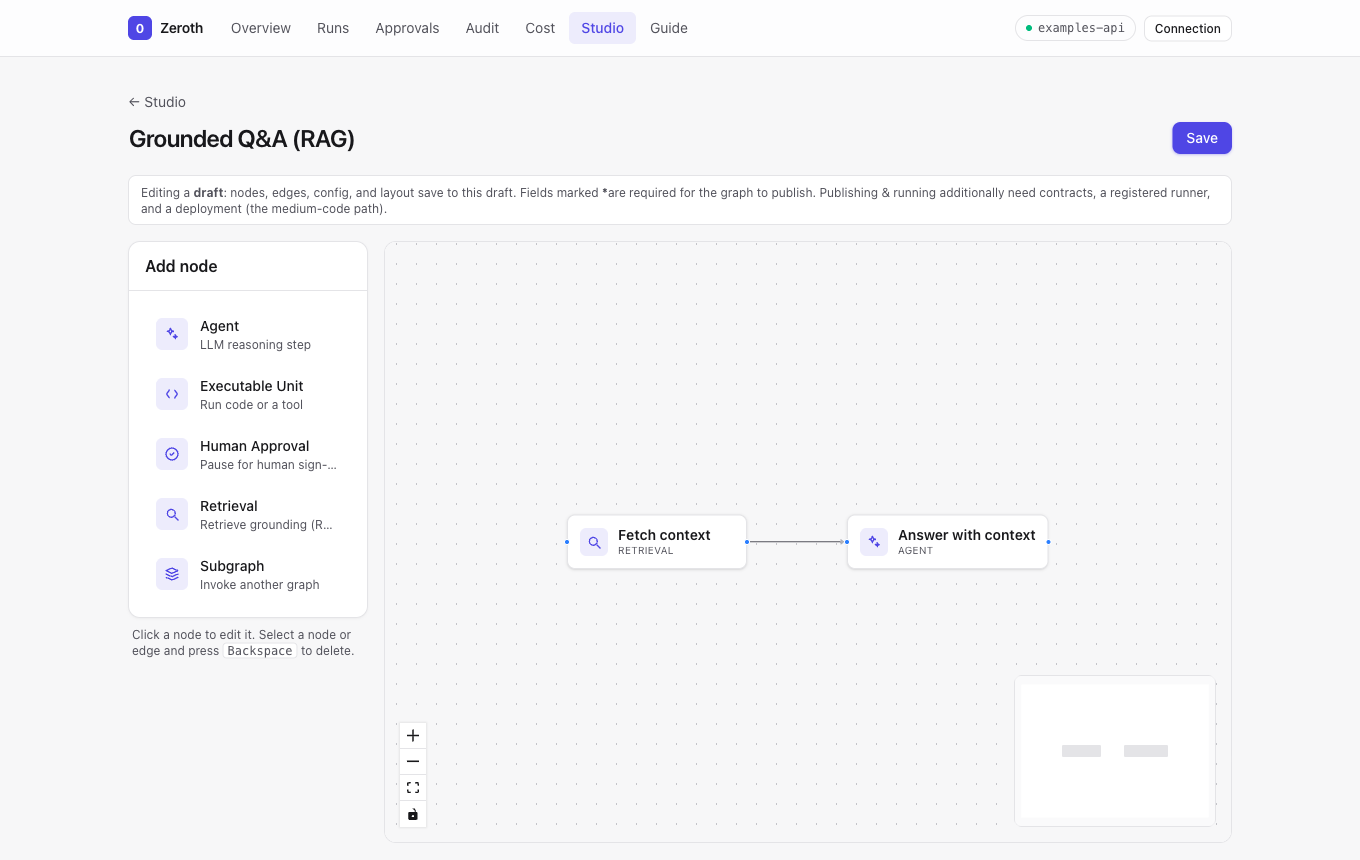
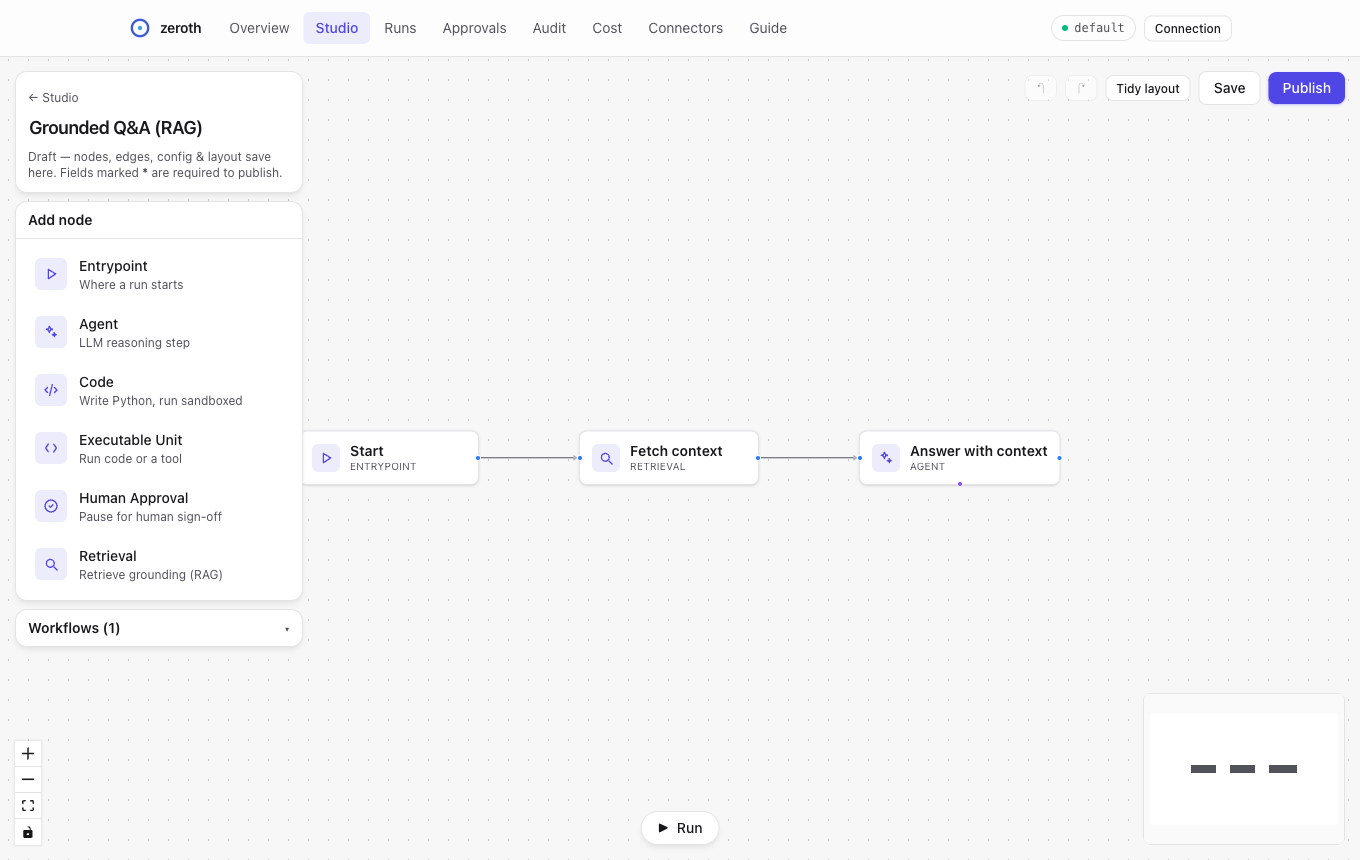
docs: v0.7.1.1.3 — README truth sweep + current console screenshots
Refresh the four README console screenshots (plus guide.png) to the
v0.7 console: full-screen canvas with node palette, entrypoint/code
nodes, publish/run controls, and the current node editor.

Text fixes for drift since v0.4.2.1:
- extras list gains otel + regulus; [all] description corrected
- node types section lists all six graph node types
- governance gains the budget-caps layer; econ plane added to the
  architecture diagram
- project structure tree matches src/zeroth/core plus bundled
  econ_plane / econ_instrumentation and frontend/
- web console section reflects the closed canvas-to-run loop
  (publish/deploy, contracts, tool edges, code nodes) and the
  connectors page
- 'v4.0 Platform Extensions' internal milestone label dropped

diff --git a/README.md b/README.md
@@ -68,10 +68,12 @@ pip install "zeroth-core[memory-chroma]" # Chroma memory backend
 pip install "zeroth-core[memory-es]"     # Elasticsearch memory backend
 pip install "zeroth-core[dispatch]"      # Distributed worker (redis + arq)
 pip install "zeroth-core[sandbox]"       # Sandbox sidecar marker
-pip install "zeroth-core[all]"           # All backends above (console stays separate)
+pip install "zeroth-core[otel]"          # OpenTelemetry trace/metric export
+pip install "zeroth-core[regulus]"       # Bundled economic control plane backend
+pip install "zeroth-core[all]"           # Everything above except console
 ```
 
-Available extras: `console`, `memory-pg`, `memory-chroma`, `memory-es`, `dispatch`, `sandbox`, `all`.
+Available extras: `console`, `memory-pg`, `memory-chroma`, `memory-es`, `dispatch`, `sandbox`, `otel`, `regulus`, `all`.
 
 ---
 
@@ -94,13 +96,16 @@ Most agent frameworks prioritize getting something working quickly. Zeroth prior
 
 A **graph** is your application. It defines how agents, executable units, and approval steps connect and interact. Graphs can be cyclic, support branching conditions, and are executed asynchronously.
 
-### Three Node Types
+### Node Types
 
-Zeroth keeps its primitives minimal. Every graph is composed from just three node types:
+Zeroth keeps its primitives minimal. Every graph is composed from a small set of node types:
 
-- **Agent** — an AI-powered node backed by an LLM provider, with optional tool attachments and memory connectors
+- **Entrypoint** — where a run starts; its contract is the workflow's public input shape, validated before anything executes
+- **Agent** — an AI-powered node backed by an LLM provider, with optional memory connectors and tool attachments (other graph units can be attached as callable tools)
 - **Executable Unit** — a sandboxed unit of work (Python code, shell scripts, commands, or full projects) that handles transformations, integrations, routing, and any deterministic processing
 - **Human Approval** — a pause point where a human must review and approve before execution continues
+- **Retrieval** — queries a memory/knowledge connector and passes the top matches downstream (the grounding step in a RAG flow)
+- **Subgraph** — invokes another published graph as a single step, keeping workflows small and composable
 
 ### Contracts
 
@@ -120,13 +125,14 @@ Zeroth enforces governance at multiple layers:
 
 - **Policy** — capability-based rules controlling what agents can do (network access, file writes, memory access, secret usage)
 - **Guardrails** — rate limiting, quota enforcement, and dead-letter queues for failed operations
+- **Budgets** — per-tenant spend caps enforced through the bundled economic control plane, with per-node cost attribution
 - **Audit** — per-node event tracking with secret redaction, timeline assembly, and evidence summaries
 - **Approvals** — human-in-the-loop gates with decision tracking
 - **Secrets** — resolved from secure providers and automatically redacted from logs
 
-### v4.0 Platform Extensions
+### Platform Extensions
 
-Zeroth v4.0 adds six subsystems for production agentic workflows:
+Six further subsystems support production agentic workflows:
 
 - **Resilient HTTP Client** — Platform-provided async HTTP with retry, circuit breaking, and connection pooling for external API calls
 - **Prompt Templates** — Versioned prompt template registry with Jinja2 sandboxed rendering and automatic secret redaction in audit records
@@ -160,6 +166,8 @@ REST endpoints for artifact retrieval (`GET /v1/artifacts/{id}`) and template ma
 │  Context Window Mgmt    │  Resilient HTTP Client     │
 ├──────────────────────────────────────────────────────┤
 │  Audit  │  Guardrails  │  Secrets  │  Observability │
+├──────────────────────────────────────────────────────┤
+│  Econ Plane (cost attribution, tenant budget caps)   │
 ├──────────────────────────────────────────────────────┤
 │  Storage (SQLite + Redis)  │  Identity & Auth        │
 └──────────────────────────────────────────────────────┘
@@ -218,33 +226,45 @@ uv run ruff format src/
 ## Project Structure
 
 ```
-src/zeroth/
+src/zeroth/core/
 ├── agent_runtime/      # Agent execution, LLM providers, tool attachments
 ├── approvals/          # Human approval workflows and decision tracking
 ├── artifacts/          # Artifact externalization and retrieval
 ├── audit/              # Per-node event tracking, redaction, evidence
+├── cli.py              # zeroth-core CLI (serve, seed-demo, migrate)
 ├── conditions/         # Branch evaluation and traversal logging
+├── config/             # Runtime settings and configuration reference
 ├── context_window/     # Token tracking and context compaction
 ├── contracts/          # Pydantic-based schema registration and versioning
 ├── deployments/        # Immutable graph snapshots and version management
 ├── dispatch/           # Durable run dispatch and worker supervision
+├── econ/               # Cost estimation, budget enforcement, econ integration
+├── eval/               # Agent evaluation harness: datasets, scorers, CI gate
 ├── execution_units/    # Sandboxed code execution (Docker, Python, shell)
 ├── graph/              # Workflow DAG structure and persistence
 ├── guardrails/         # Rate limiting, quotas, dead-letter queues
-├── http/               # Resilient async HTTP client (http_client) with retry and circuit breaking
+├── http/               # Resilient async HTTP client with retry and circuit breaking
 ├── identity/           # Authentication, principals, roles, scoping
 ├── mappings/           # Data flow definitions between graph nodes
 ├── memory/             # Persistent agent memory connectors
+├── migrations/         # Schema migrations applied at boot
 ├── observability/      # Metrics, correlation IDs, structured logging
 ├── orchestrator/       # Core workflow execution engine
 ├── parallel/           # Fan-out/fan-in concurrent branch execution
 ├── policy/             # Capability-based access control
+├── rag/                # Document ingestion for retrieval (chunk + embed)
 ├── runs/               # Run and thread state persistence
+├── sandbox_sidecar/    # Sidecar sandbox backend
 ├── secrets/            # Secret resolution and redaction
-├── service/            # FastAPI HTTP API and bootstrap
+├── service/            # FastAPI HTTP API, console mount, bootstrap
 ├── storage/            # SQLite, Redis, migrations, encryption
 ├── subgraph/           # Nested graph composition and resolution
-└── templates/          # Versioned prompt template registry
+├── templates/          # Versioned prompt template registry
+└── webhooks/           # Webhook subscriptions, signed delivery, dead-letter
+
+src/econ_plane/         # Bundled Regulus economic control plane backend
+src/econ_instrumentation/  # Vendored instrumentation SDK used by econ/
+frontend/               # Next.js web console (static export, see below)
 ```
 
 ---
@@ -306,19 +326,20 @@ The console is built once and runs in **two modes from the same bundle**:
 The console reads its API base URL and `X-API-Key` from the browser at runtime
 (localStorage), so the same artifact works in both modes.
 
-**What it covers:** an overview/health dashboard with a getting-started
-checklist; runs (submit with example payloads + a live-polling detail view);
-approvals (approve/reject); per-node audit; deployment cost; a Studio with
-workflow templates, CRUD, and a React Flow graph canvas; and an in-console
-Guide.
+**What it covers:** an overview/health dashboard with deployments and a
+getting-started checklist; runs (submit with example payloads, a live-polling
+detail view, and ready-made cURL for the deployed API); approvals
+(approve/reject); per-node audit; deployment cost; connector administration;
+a Studio with workflow templates, CRUD, publish/deploy, and a full-screen
+React Flow canvas; and an in-console Guide.
 
-> **Studio authoring edits draft graph structure.** On a *draft* you can add the
-> five executable node types (agent, executable_unit, human_approval, retrieval,
-> subgraph), edit each node's config, draw edges, and save real graph nodes/edges
-> plus layout. Published graphs are read-only — *clone to a draft* to edit. Note:
-> an authored draft still needs contracts + a registered runner + deployment to
-> actually run; the canvas authors graph *structure*, not the full medium-code
-> wiring.
+> **Studio authoring closes the canvas→run loop.** On a *draft* you can add
+> any of the node types above — plus inline Python **code** nodes that execute
+> in the sandbox — edit each node's config, draw data edges and agent **tool**
+> edges, author JSON-Schema contracts, and pick the entrypoint. Publish the
+> draft, deploy it, and run it straight from the canvas with live per-node
+> status and past-run replay — no Python required. Published graphs are
+> read-only — *clone to a draft* to edit.
 
 ```bash
 # Easiest: the [console] extra ships the pre-built UI as the zeroth-console
